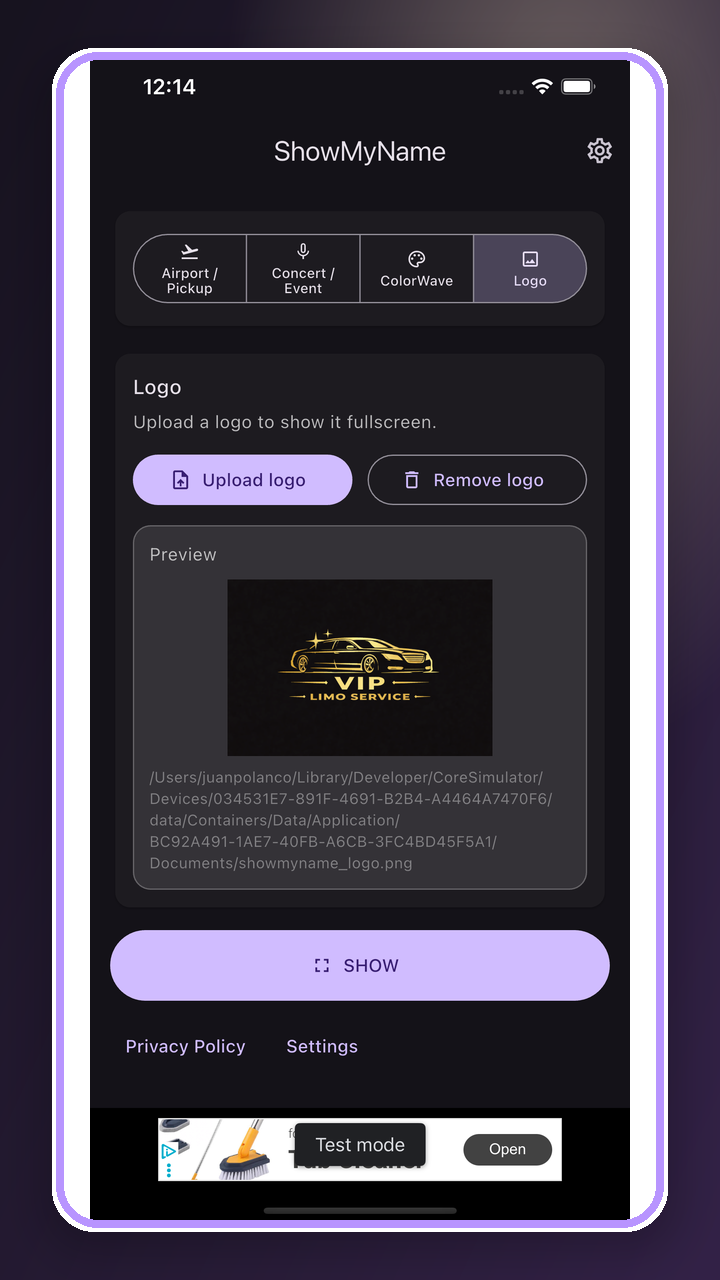
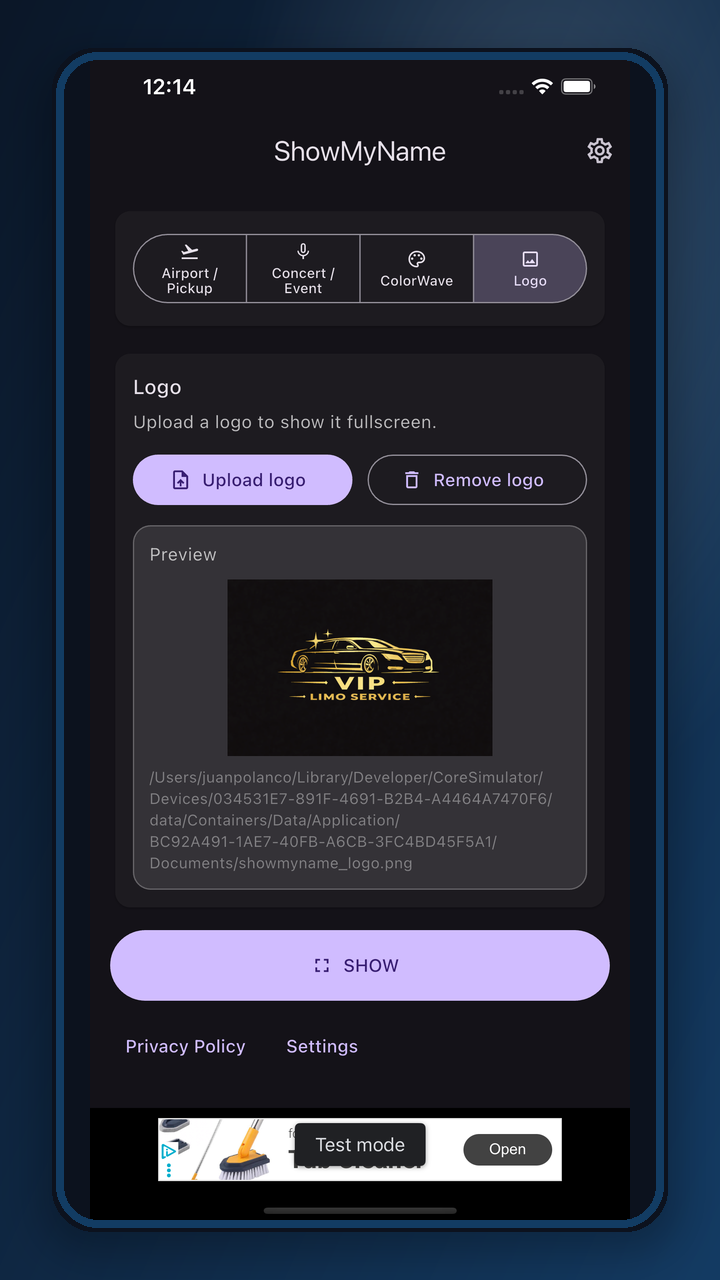
Refine app promo styling

Changed region(s): [[0.0611, 0.0, 1.0, 1.0]]

diff --git a/lib/pages/class_folder/app_page.dart b/lib/pages/class_folder/app_page.dart
@@ -365,7 +365,7 @@ class _AppVisualSection extends StatelessWidget {
       case "ShowMyName":
         return const _VisualSet(
           promo: "assets/app_pages/showmyname_promo.png",
-          accent: Color(0xFFB895FF),
+          accent: Color(0xFF123C63),
           screenshots: [
             "assets/app_pages/showmyname_screen_1.png",
             "assets/app_pages/showmyname_screen_2.png",

diff --git a/codex memory 06162026.md b/codex memory 06162026.md
@@ -108,3 +108,9 @@ Date: 2026-06-16
     - ShowMyName dark purple/gold.
   - The reusable app visuals section now applies a subtle per-app accent tint and border based on the app icon color.
   - Website version increased to `1.0.0+9`.
+- 2026-06-16 ShowMyName color correction:
+  - Juan rejected the purple ShowMyName accent because it looked too loud.
+  - Replaced the ShowMyName promo image, screenshot frames, button color, title color, and app page accent with a darker navy blue (`#123C63`).
+  - Reduced the app-name text size in promotional images so the name does not look oversized or awkward.
+  - Corrected the EzInvoice promotional image to use the real green EzInvoice app icon (`assets/miscellaneous/EzInvoice_Icon.png`) instead of the old blue finance icon.
+  - Website version increased to `1.0.0+10`.
